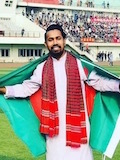
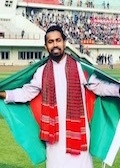
Initial commit

diff --git a/stu.html b/stu.html
@@ -132,7 +132,7 @@ function showDivs2(n) {
                       <div class="row row-padding">
                           <div class="col-md-4 col-xm-4 text-center">
                               <p data-scroll-reveal="enter from the bottom after 0.3s" align=center>
-                                  <img src="students/timg2.png" class="img-circle img-padding"><br/>
+                                  <img src="students/2015zhengyajie.jpg" class="img-circle img-padding"><br/>
                                   Ya-jie Zheng （郑雅洁）<br/>
                                   (co-advised with Dongwen Zhang, 2015-2017)
                               </p>
